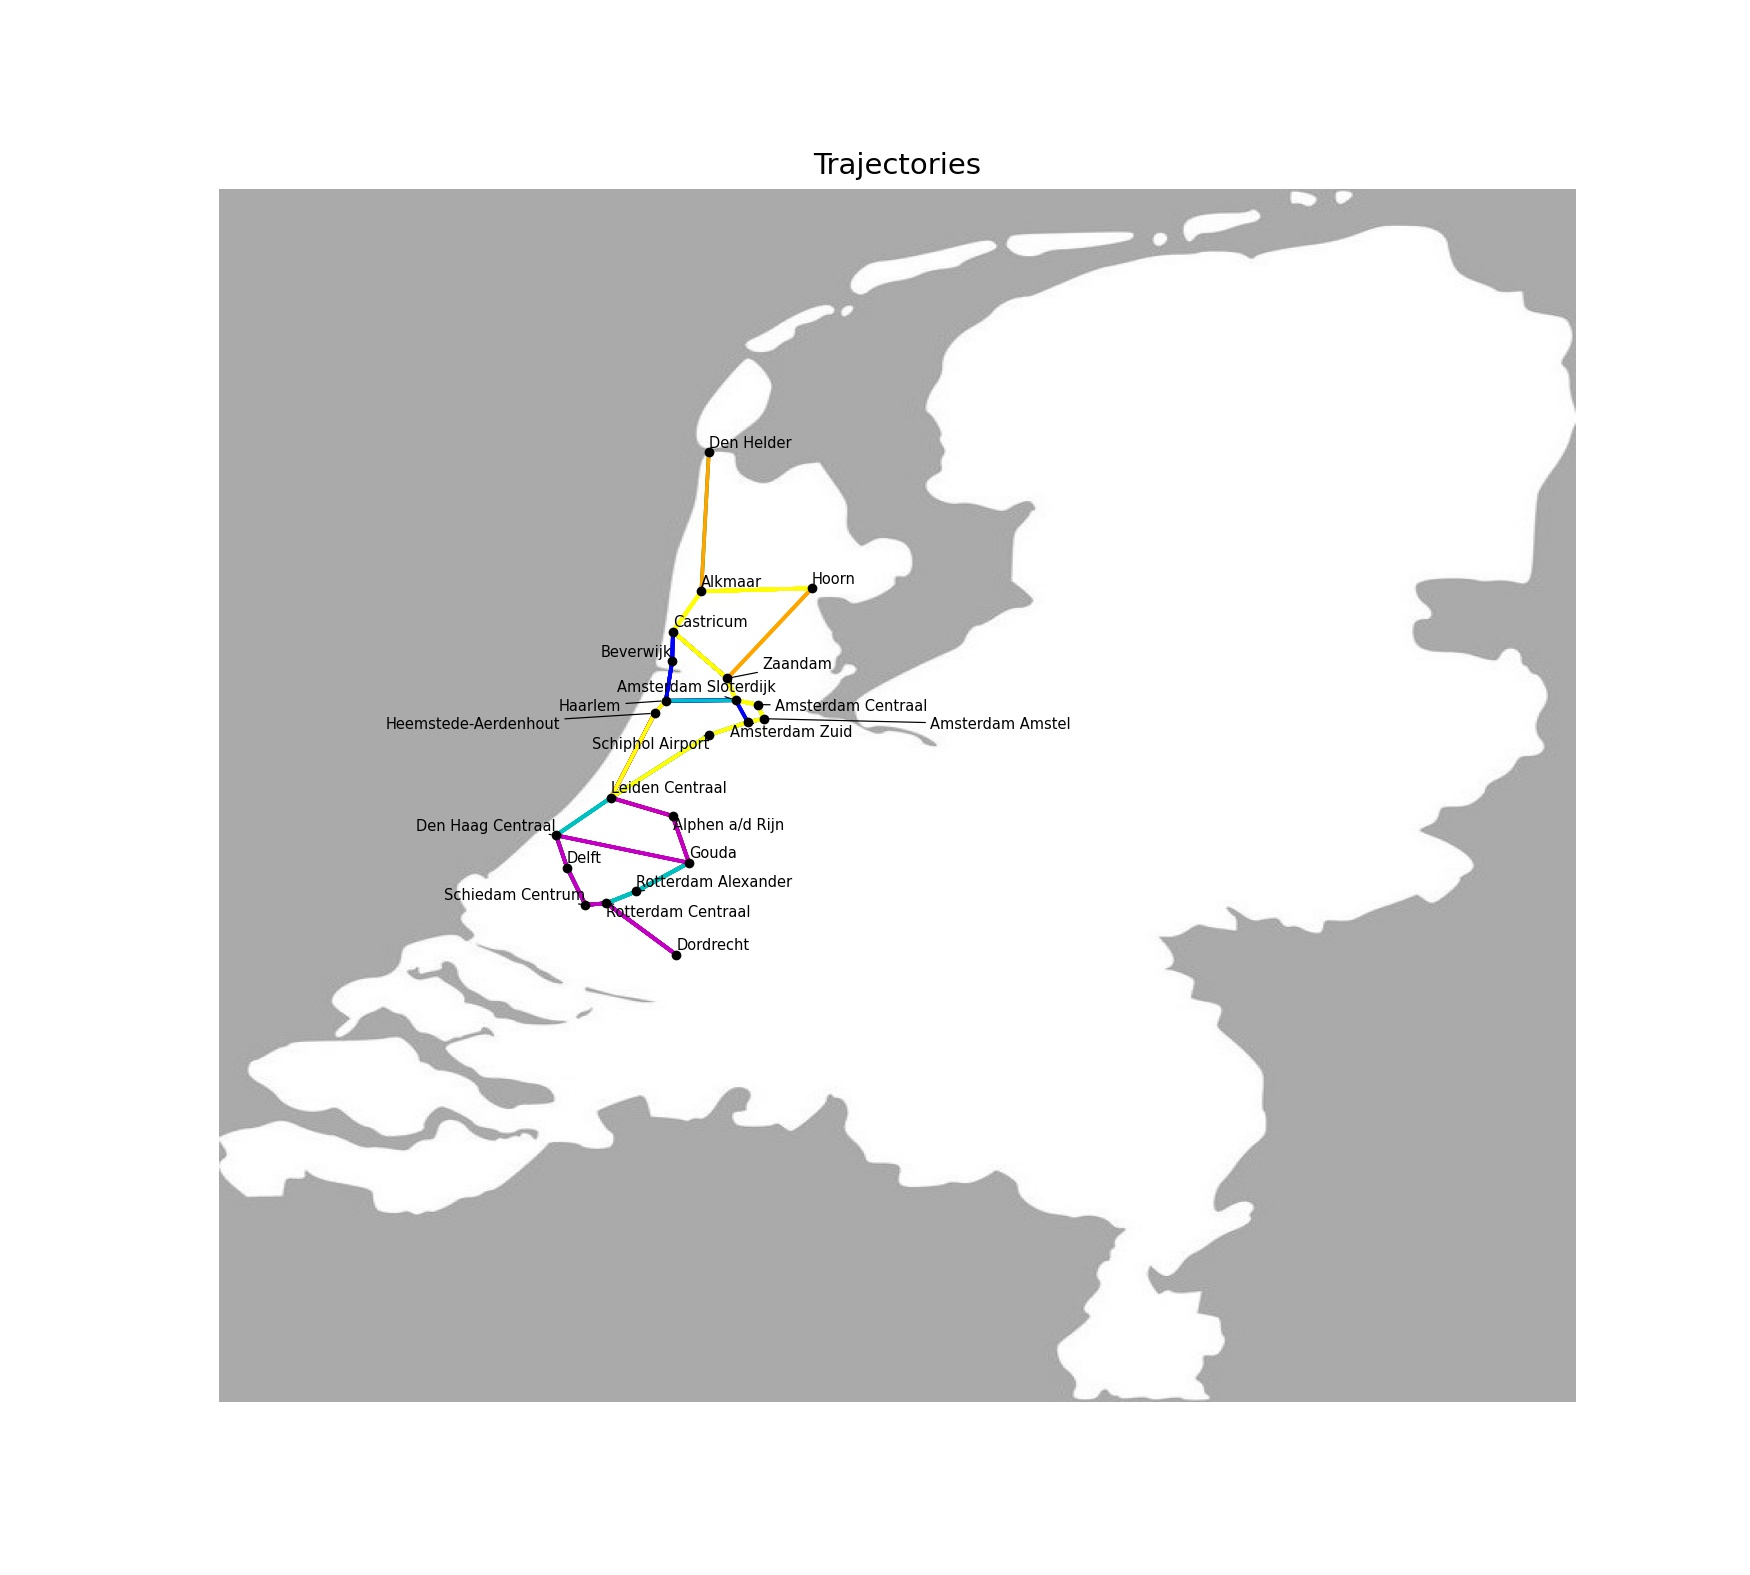
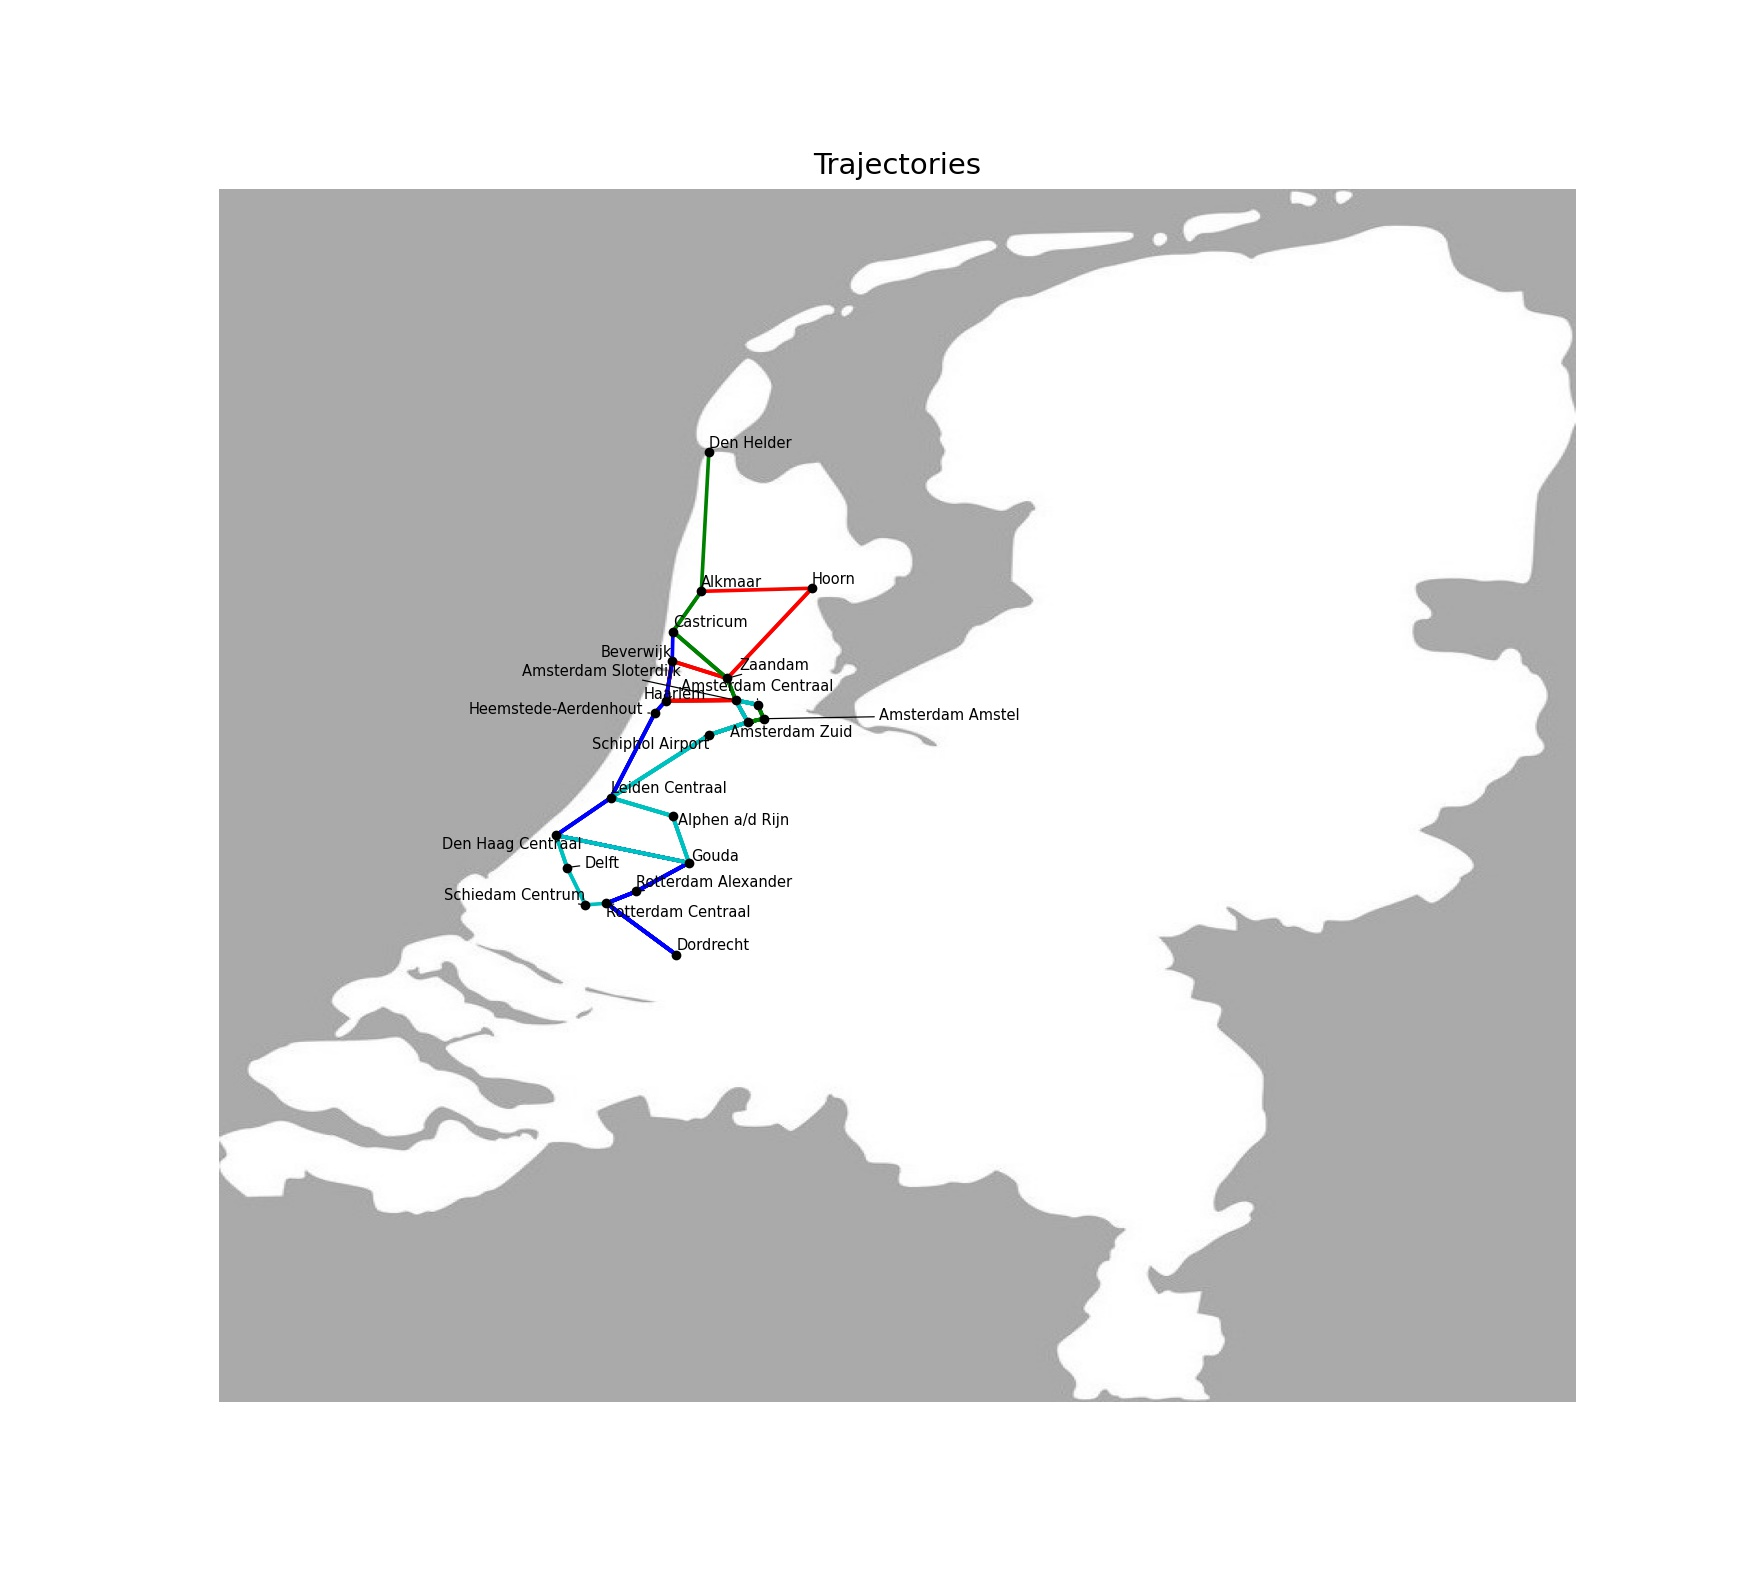
randomise & main updated

Changed region(s): [[0.2469, 0.3733, 0.5863, 0.5911], [0.2469, 0.4978, 0.2777, 0.5289]]

diff --git a/main.py b/main.py
@@ -4,10 +4,14 @@ from code.algorithms.randomise import Randomise
 from code.algorithms.hill_climber import HillClimber
 from code.algorithms.simulated_annealing import SimulatedAnnealing
 from code.visualisation.visualise import visualise
-from code.visualisation.plot import plot
 import csv
 import random
-import sys
+
+TIME_FAME_HOLLAND = 120
+MAX_TRAINS_HOLLAND = 7
+TIME_FAME_NATIONAL = 180
+MAX_TRAINS_NATIONAL = 20
+TEMP = 50
 
 if __name__ == '__main__':
     
@@ -17,14 +21,14 @@ if __name__ == '__main__':
         if type_of_file == '1':
             stations_file = "data/Holland/StationsHolland.csv"
             connections_file = "data/Holland/ConnectiesHolland.csv"
-            max_number_of_trains = 7
-            time_frame = 120
+            max_number_of_trains = MAX_TRAINS_HOLLAND
+            time_frame = TIME_FAME_HOLLAND
             break
         elif type_of_file == '2':
             stations_file = "data/Nationaal/StationsNationaal.csv"
             connections_file = "data/Nationaal/ConnectiesNationaal.csv"
-            max_number_of_trains = 20
-            time_frame = 180
+            max_number_of_trains = MAX_TRAINS_NATIONAL
+            time_frame = TIME_FAME_NATIONAL
             break
     
     while True:
@@ -35,27 +39,37 @@ if __name__ == '__main__':
     while True:
         algorithm = input("Choose 1 to use Randomise\nChoose 2 to use HillClimber\nChoose 3 to use Simulated Annealing:\n")
         if algorithm == '1':
-            highest_score = 0
-            lowest_score = 10000
+            # highest_score = 0
+            # lowest_score = 10000
 
-            for i in range(iterations):
-                test_map = Map(stations_file, connections_file)
-                randomise = Randomise(test_map)
-                randomise.run(max_number_of_trains, time_frame)
-                test_map = randomise.map
+            # for i in range(iterations):
+            #     test_map = Map(stations_file, connections_file)
+            #     randomise = Randomise(test_map)
+            #     randomise.run(max_number_of_trains, time_frame)
+            #     test_map = randomise.map
 
-                if test_map.calculate_score() > highest_score:
-                    highest_score = test_map.calculate_score()
-                    best_map = test_map
-                    print(f"New highest score: {highest_score}")
-                elif test_map.calculate_score() < lowest_score:
-                    lowest_score = test_map.calculate_score()
+            #     if test_map.calculate_score() > highest_score:
+            #         highest_score = test_map.calculate_score()
+            #         best_map = test_map
+            #         print(f"New highest score: {highest_score}")
+            #     elif test_map.calculate_score() < lowest_score:
+            #         lowest_score = test_map.calculate_score()
             
-                    scores_sum += test_map.calculate_score()
+            #         scores_sum += test_map.calculate_score()
 
-                average_score = scores_sum / iterations
+            #     average_score = scores_sum / iterations
 
-                print(f"Highest score: {highest_score}")
+            #     print(f"Highest score: {highest_score}")
+
+            train_map = Map(stations_file, connections_file)
+            randomise = Randomise(train_map)
+            randomise.run(max_number_of_trains, time_frame, iterations)
+            best_map = randomise.map
+
+            
+            print(f"Highest score: {randomise.score}")
+            print(f"Lowest score: {randomise.lowest_score}")
+            print(f"Average score: {randomise.average_score}")
 
             best_map.create_output("random_output.csv")
             break
@@ -80,7 +94,7 @@ if __name__ == '__main__':
                         temperature = int(input("Temperature: "))
                         break
                     elif choice[0] == 'n':
-                        temperature = 50
+                        temperature = TEMP
                         break
                 simanneal = SimulatedAnnealing(stations_file, connections_file, max_number_of_trains, time_frame, temperature)
                 simanneal.map.create_output("output1.csv")
@@ -110,7 +124,7 @@ if __name__ == '__main__':
                         temperature = int(input("Temperature: "))
                         break
                     elif choice[0] == 'n':
-                        temperature = 50
+                        temperature = TEMP
                         break
                 
                 simanneal = SimulatedAnnealing(stations_file, connections_file, max_number_of_trains, time_frame, temperature)

diff --git a/code/algorithms/randomise.py b/code/algorithms/randomise.py
@@ -2,46 +2,78 @@ import random
 import copy
 from code.classes.map import Map
 from helpers.remove_duplicates import remove_duplicates
-# time_frame = 120
 
 class Randomise:
     
     def __init__(self, train_map):
         self.map = train_map
-        # a list that contains the id's of the ridden connections
-        self.ridden_connections = []
+        self.score = 0
+        self.average_score = 0
+        self.lowest_score = 0
     
-    def run(self, number_of_trains, time_frame):
-        
+    def run(self, number_of_trains, time_frame, iterations):
         self.map.time_frame = time_frame
+
+        scores_sum = 0
+        highest_score = 0
+        lowest_score = 10000
+
+        for iteration in range(iterations):
+            random_map = self.create_map(number_of_trains)
+            new_score = random_map.calculate_score()
+
+            if iteration%5000 == 0:
+                print(f"Iteration {iteration} reached. {iterations - iteration} iterations left")
+                print(f"Highest score: {highest_score}\n")
+            
+            if new_score >= highest_score:
+                best_map = random_map
+                highest_score = new_score
+            elif new_score < lowest_score:
+                lowest_score = new_score
+
+            if new_score > highest_score:
+                print(f"New highest score: {new_score}")
+
+            scores_sum += new_score
+
+        self.map = best_map
+        self.score = self.map.calculate_score()
+        self.average_score = scores_sum / iterations
+        self.lowest_score = lowest_score
+
+    def create_map(self, number_of_trains):
+        
+        train_map = copy.deepcopy(self.map)
 
         # train id
         t_id = 1
         
         # create multiple trains
         for _ in range(number_of_trains):
-            if len(self.ridden_connections) == self.map.number_of_connections:
+            if len(train_map.ridden_connections) == train_map.number_of_connections:
                 break
 
             # create a train
-            train_data = self.create_train()
+            train_data = self.create_train(train_map)
             train = train_data['train']
             train_distance = train_data['train_distance']
 
             # add train to the map
             train_id = f"train_{t_id}"
-            self.map.add_train(train_id, train, train_distance)
+            train_map.add_train(train_id, train, train_distance)
                 
             t_id += 1
 
             # remove duplicated (ridden) connection ids from the list
-            self.ridden_connections = remove_duplicates(self.ridden_connections)
+            train_map.ridden_connections = remove_duplicates(train_map.ridden_connections)
 
         # determine the number of ridden connections
-        self.map.number_of_ridden_connections = len(self.ridden_connections)
+        train_map.number_of_ridden_connections = len(train_map.ridden_connections)
 
+        return train_map
 
-    def create_train(self):
+    def create_train(self, train_map):
 
         # randomly chose the start point
         station = random.choice(self.map.stations)
@@ -76,8 +108,8 @@ class Randomise:
                 break
 
             train.append(next_station)
-            self.ridden_connections.append(connection_id)
-            self.map.all_ridden_connections.append(connection_id) 
+            train_map.ridden_connections.append(connection_id)
+            train_map.all_ridden_connections.append(connection_id) 
             train_distance += distance_to_next_station
 
             station = next_station
